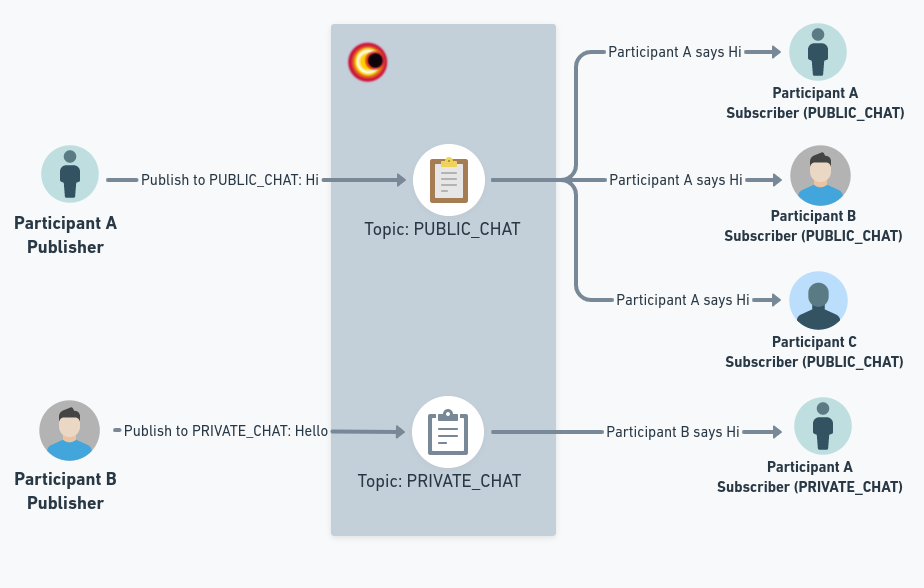
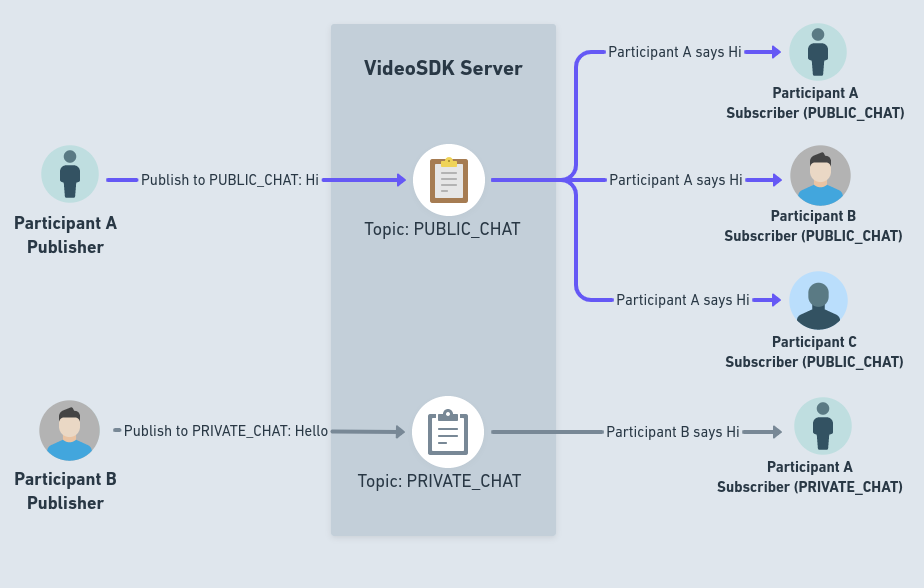
missing api ref. added pubsub image updated

diff --git a/react_docs_versioned_docs/version-0.1.x/guide/video-and-audio-calling-api-sdk/recording-and-live-streaming/interactive-livestream.md b/react_docs_versioned_docs/version-0.1.x/guide/video-and-audio-calling-api-sdk/recording-and-live-streaming/interactive-livestream.md
@@ -4,7 +4,7 @@ hide_title: false
 hide_table_of_contents: false
 description: Interactive Livestream features quick integrate in Javascript, React JS, Android, IOS, React Native, Flutter with Video SDK to add live video & audio conferencing to your applications.
 sidebar_label: Interactive Livestream (HLS)
-pagination_label: Interactive Livestream (HLS)  
+pagination_label: Interactive Livestream (HLS)
 keywords:
   - Start HLS meeting
   - Stop HLS meeting
@@ -160,3 +160,11 @@ const {
 ### Custom Template
 
 With VideoSDK, you can also use your own custom designed layout template to livestream the meetings. In order to use the custom template, you need to create a template for which you can [follow these guide](/docs/tutorials/customized-layout). Once you have setup the template, you can use the [REST API to start](/api-reference/realtime-communication/start-livestream) the livestream with the `templateURL` parameter.
+
+## API Reference
+
+The API references for all the methods utilised in these guide are provided below.
+
+- [startHls](/react/api/sdk-reference/use-meeting/methods#starthls)
+- [stopHls](/react/api/sdk-reference/use-meeting/methods#stophls)
+- [onHlsStateChanged](/react/api/sdk-reference/use-meeting/events#onhlsstatechanged)

diff --git a/react_docs_versioned_docs/version-0.1.x/guide/video-and-audio-calling-api-sdk/render-media/display-audio-video.md b/react_docs_versioned_docs/version-0.1.x/guide/video-and-audio-calling-api-sdk/render-media/display-audio-video.md
@@ -21,7 +21,7 @@ In this guide we will take a look at how to render the participant's audio and v
 
 ## Rendering Participant
 
-The theree steps are involve to achieve this process.
+The three steps are involve to achieve this process.
 
 1. [Get Mic and Webcam Status](#1-get-mic-and-webcam-status)
 2. [Rendering Video](#2-rendering-video)
@@ -92,6 +92,12 @@ const ParticipantView = ({ participantId }) => {
 };
 ```
 
+<center>
+
+![participant status](/img/participant-status.png)
+
+</center>
+
 ### `2. Rendering Video`
 
 The status of the `webcam` and `mic` is now displayed. If the webcam is turned `on`, we will require the participant's `webcamStream` which we will obtain from the `useParticipant` hook, in order to display the participant's video.
@@ -124,12 +130,6 @@ const ParticipantView = ({ participantId }) => {
   );
 };
 ```
-
-<center>
-
-![participant status](/img/participant-status.png)
-
-</center>
 
 **`Step 2:`** Now that we have our `<video>` element in place, we will add a `useEffect` so that, when the `webcamStream` is discovered, it will immediately add to the `<video>` element.
 

diff --git a/react_docs_versioned_docs/version-0.1.x/api/sdk-reference/use-meeting/methods.md b/react_docs_versioned_docs/version-0.1.x/api/sdk-reference/use-meeting/methods.md
@@ -213,9 +213,9 @@ startRecording(webhookUrl, awsDirPath, config);
 
 ---
 
-### startLiveStream()
+### startLivestream()
 
-- `startLiveStream()` is used to start meeting livestreaming.
+- `startLivestream()` is used to start meeting livestreaming.
 
 - You will be able to start live stream meetings to other platforms such as Youtube, Facebook, etc. that support `RTMP` streaming.
 
@@ -256,20 +256,20 @@ const config = {
   theme: "DEFAULT",
 };
 
-const { startLiveStream } = useMeeting();
+const { startLivestream } = useMeeting();
 
 startLivestream(outputs, config);
 ```
 
 ---
 
-### stopLiveStream()
+### stopLivestream()
 
-- `stopLiveStream()` is used to stop the live streaming to social media.
+- `stopLivestream()` is used to stop the live streaming to social media.
 
-#### Events associated with `stopLiveStream()`:
+#### Events associated with `stopLivestream()`:
 
-- Every participant will receive a callback on [`onLiveStreamStopped()`](./events#onlivestreamstopped)
+- Every participant will receive a callback on [`onLivestreamStopped()`](./events#onlivestreamstopped)
 
 ---
 

diff --git a/react_docs_versioned_docs/version-0.1.x/guide/video-and-audio-calling-api-sdk/recording-and-live-streaming/record-meeting.md b/react_docs_versioned_docs/version-0.1.x/guide/video-and-audio-calling-api-sdk/recording-and-live-streaming/record-meeting.md
@@ -158,3 +158,11 @@ You can also go through these [guide to setup](/docs/tutorials/user-dashboard/re
 ### Custom Template
 
 With VideoSDK, you can also use your own custom designed layout template to record the meetings. In order to use the custom template, you need to create a template for which you can [follow these guide](/docs/tutorials/customized-layout). Once you have setup the template, you can use the [REST API to start](/api-reference/realtime-communication/start-recording) the recording with the `templateURL` parameter.
+
+## API Reference
+
+The API references for all the methods utilised in these guide are provided below.
+
+- [startRecording](/react/api/sdk-reference/use-meeting/methods#startrecording)
+- [stopRecording](/react/api/sdk-reference/use-meeting/methods#stoprecording)
+- [onRecordingStateChanged](/react/api/sdk-reference/use-meeting/events#onrecordingstatechanged)

diff --git a/react_docs_versioned_docs/version-0.1.x/guide/video-and-audio-calling-api-sdk/recording-and-live-streaming/rtmp-livestream.md b/react_docs_versioned_docs/version-0.1.x/guide/video-and-audio-calling-api-sdk/recording-and-live-streaming/rtmp-livestream.md
@@ -143,3 +143,11 @@ const {
 ### Custom Template
 
 With VideoSDK, you can also use your own custom designed layout template to livestream the meetings. In order to use the custom template, you need to create a template for which you can [follow these guide](/docs/tutorials/customized-layout). Once you have setup the template, you can use the [REST API to start](/api-reference/realtime-communication/start-livestream) the livestream with the `templateURL` parameter.
+
+## API Reference
+
+The API references for all the methods utilised in these guide are provided below.
+
+- [startLivestream](/react/api/sdk-reference/use-meeting/methods#startlivestream)
+- [stopLivestream](/react/api/sdk-reference/use-meeting/methods#stoplivestream)
+- [onLivestreamStateChanged](/react/api/sdk-reference/use-meeting/events#onlivestreamstatechanged)

diff --git a/react_docs_versioned_docs/version-0.1.x/guide/video-and-audio-calling-api-sdk/setup-call/initialise-meeting.md b/react_docs_versioned_docs/version-0.1.x/guide/video-and-audio-calling-api-sdk/setup-call/initialise-meeting.md
@@ -241,3 +241,12 @@ All the hooks mentioned below are accesible within the `MeetingProvider` only.
 #### usePubsub
 
 `usePubsub` hook abstracts PubSub class and is responsible to provide a seperate communication channel for all the participants in the meeting. It can be used to develop features like Chat, Raise Hand etc. To know more about the usePubsub hook, take a look at detailed explanation of publish-subscribe mechanism.
+
+## API Reference
+
+The API references for all the methods utilised in these guide are provided below.
+
+- [useMeeting](/react/api/sdk-reference/use-meeting/introduction)
+- [useParticipant](/react/api/sdk-reference/use-participant/introduction)
+- [usePubsub](/react/api/sdk-reference/use-pubsub)
+- [MeetingProvider](/react/api/sdk-reference/meeting-provider)

diff --git a/react_docs_versioned_docs/version-0.1.x/guide/video-and-audio-calling-api-sdk/collaboration-in-meeting/pubsub.md b/react_docs_versioned_docs/version-0.1.x/guide/video-and-audio-calling-api-sdk/collaboration-in-meeting/pubsub.md
@@ -22,7 +22,7 @@ PubSub is a short acronym for Publish-Subscribe mechanism. These mechanism is us
 
 Here is a visual to better understand publish-subscribe mechanism.
 
-![pubsub](../../../../../static/img/pubsub.png)
+![pubsub](/img/pubsub.png)
 
 ## usePubSub
 
@@ -58,7 +58,7 @@ function MeetingView() {
 }
 ```
 
-## Getting the messages
+## Receiving the messages
 
 - `messages` property of the `usePubSub` hook will hold all the past and new upcoming messages for that particular topic.
 
